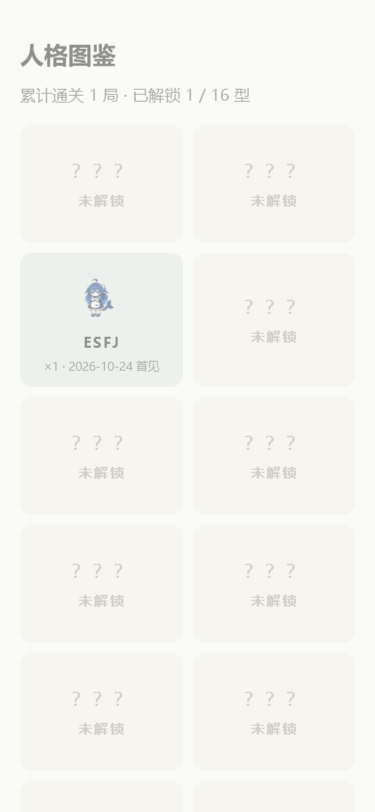
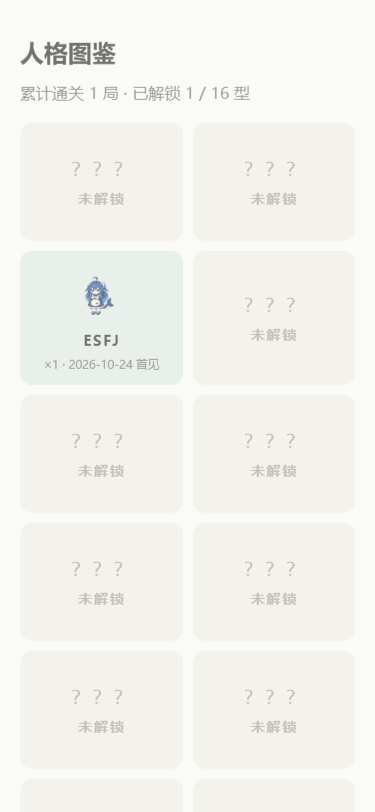
心路：v2-M4' 4.3 发布文书（tag 前终态）——CHANGELOG v2.0.0 节（数据口径版本 v2.0.0：事件 121/结局 8+1/画像 16/birth-map 288 对账 validate --count；历史存档建议重开声明——B1 新增 9 条事件 112→121 改变结局判定结论；v2 特性七条：E2E 基线/人格鱼 mascot/16 型图鉴/分享卡/场景氛围/可达性扫描门/素材治理双门禁+credits；已知限制含手机相册端真机待验）+ plan/05 新增 §七 v2.0.0 发布留档主体（发布概要/tag 时点事实两栏：构建 fa1ec35、干净静态 8

diff --git a/plan/v2/05-发布留档.md b/plan/v2/05-发布留档.md
@@ -1,44 +1,33 @@
 # 05 · 《心路》v2.0 发布留档
 
-> **状态：⬜ 待 v2-M4' 撰写主体（骨架先行，2026-10-24 建立）**
-> 自证约定（沿 v1 plan/05）：本档**主体**在 tag v2.0.0 **之前**定稿随 tag 入树；发布后才产生的事实只写入「tag 后追加」分栏。本档是 v1 [../05-发布留档.md](../05-发布留档.md) 的**追加节**载体——发布时其内容并入该档新增 v2.0.0 节（单源不双写），本骨架随 v2 套件留存。
+> **状态：✅ 主体已定稿（2026-10-24，v2-M4' 撰写）——主体事实并入 [plan/05-发布留档.md §七 v2.0.0 发布留档](../05-发布留档.md)（单源不双写），本骨架随 v2 套件留存为载体**
+> 自证约定（沿 v1 plan/05）：主体在 tag v2.0.0 **之前**定稿随 tag 入树；发布后才产生的事实只写入 plan/05 §七「tag 后追加」分栏。本档是 v1 [../05-发布留档.md](../05-发布留档.md) 的**追加节**载体——发布时其内容并入该档新增 v2.0.0 节（单源不双写），本骨架随 v2 套件留存。
 
-## 一、发布概要（待 v2-M4' 填）
+## 一、发布概要（主体见 plan/05 §七发布概要表）
 
 | 项 | 值 |
 |---|---|
-| 版本 | ⬜ 待 v2-M4'（拟 v2.0.0——B1 改变结局判定结论，主版本 +1） |
-| 数据口径版本 | ⬜ 待 v2-M4'（v2.0.0 数据口径；对账 `npm run validate -- --count` 实际数） |
-| 部署地址 | ⬜ 待 v2-M4'（Pages URL 不变，内容随 v2 更新） |
-| 构建产物 | `dist.zip` + sha256（Release 附件；预期显著大于 v1 的 34KB，预算门 ≤500KB gzip 内） |
+| 版本 | v2.0.0（详见 [plan/05 §七](../05-发布留档.md)） |
+| 数据口径版本 | v2.0.0 数据口径（详见 [plan/05 §七](../05-发布留档.md)） |
+| 部署地址 | https://yuluo554.github.io/xinlu/ |
+| 构建产物 | `dist.zip` + sha256（Release 附件；预算门 447.29KB ≤ 500KB gzip） |
 
-## 二、附件清单（与 00 §实物表对账）
+## 二、附件清单（与 00 §实物表对账；明细见 plan/05 §七）
 
 | 附件 | 应存在 | 核对 |
 |---|---|---|
-| `dist.zip` | Release 附件 + 本地副本 | 下载解压，静态服务可玩 + mascot/分享卡可见 |
+| `dist.zip` | Release 附件 + 本地副本 | 下载解压，静态服务可玩 + mascot/分享卡/图鉴可见 |
 | sha256 校验和 | Release 说明内 | `sha256sum dist.zip` 与说明一致 |
 | 分享卡样张 | docs/assets/（非 Release 必附） | 实存图留痕 |
 
-## 三、tag 时点事实（待 v2-M4'，tag 之前写定）
+## 三、tag 时点事实（已写定于 plan/05 §七同名分节）
 
-- 构建与验证完成时间、commit：
-- 干净环境冒烟：一键通关 + 分享卡导出 + 图鉴写入 留痕路径：
-- E2E 与门禁终值：e2e 绿 / 许可门绿 / 预算门绿（数值：dist gzip 实测 =  ）：
-- CHANGELOG 条目与口径版本：
-- 已知问题（01 §十 + 遗留选择）：
+- 主体事实（构建 commit / 干净冒烟 / Pages run / 门禁终值 / CHANGELOG / 已知问题）唯一存放 [plan/05 §七「tag 时点事实」](../05-发布留档.md)，此处不复制。
 
-## 四、tag 后追加事实（发布后填，不得回写上节）
+## 四、tag 后追加事实（发布后填于 plan/05 §七同名分节，不得回写 tag 时点节）
 
-- 实际 Pages URL 首开验证时间：
-- Release 附件实际 sha256：
-- Traffic 对比 v1 基线（v1 发布当日 views 0）：周记见 06 §节奏：
-- 首批外部反馈（如有）：
+- 追加事实（实际 tag/Release、sha256 复核、部署 run、Traffic）唯一存放 [plan/05 §七「tag 后追加事实」](../05-发布留档.md)，此处不复制。
 
 ## 五、DoD 达成声明（对照 00 §里程碑总表 v2-M4' 行逐项打勾）
 
-- [ ] tag v2.0.0 + Release 附产物（dist.zip + sha256）+ 本留档追加节 三件套
-- [ ] Release 说明五部分（变更摘要 / 口径版本 / **历史存档建议重开声明** / 校验和 / 已知问题）
-- [ ] tag 在构建与验证之后
-- [ ] README 增量（分享卡/图鉴说明 + credits 链接）且 76 行门不破
-- [ ] 两处状态副本 + 台账（v2 八行）全翻 ✅
+- 勾选态唯一存放 [plan/05 §七「DoD 达成声明」](../05-发布留档.md)，随收官提交翻齐。

diff --git a/plan/05-发布留档.md b/plan/05-发布留档.md
@@ -54,3 +54,40 @@
 | README/DEVELOPMENT 门清单（Python 版 check_readme_gate 严格模式） | 不适用+理由 | 本项目非 Python 包，无 wheel/pyproject；README 门以 04 §M5 中文门清单逐项人工核验（docs/M5-门面与体验清单.md §四 + docs/M6-发布清单.md §三），判据同构（行数/行位/无 DoD/已知限制/依据表） |
 | Traffic 周记（14 天窗口） | 待首推 | 基线 0 已录 §四；首次 7 天回访按 plan/06 周自查执行（HANDOFF-M7 待办） |
 | 外部反馈 / issue 轮转 | 待首推 | 发布当日无 issue；按 plan/06 归档判据与周记节奏观察 |
+
+## 七、v2.0.0 发布留档（v2-M4' · 2026-10-24）
+
+> 单源约定：v2 套件 [v2/05-发布留档.md](v2/05-发布留档.md) 是骨架载体，v2.0.0 的主体事实唯一存放本节（单源不双写），本节判据与 §一–§六 同构。v2.0.0 = B1 改变结局判定结论 → 主版本 +1（双层版本规则，plan/06）。
+
+### 发布概要
+
+| 项 | 值 |
+|---|---|
+| 版本 | v2.0.0（package.json / package-lock 2.0.0，tag 同号） |
+| 数据口径版本 | v2.0.0 数据口径（2026-10-24 末态；对账 `npm run validate -- --count`：事件 121 / 结局 8 条件 + 1 兜底 / 画像 16 / birth-map 288 组合） |
+| 部署地址 | https://yuluo554.github.io/xinlu/（URL 不变，内容随 v2 更新） |
+| 构建产物 | `dist.zip` + sha256（Release 附件；预算门实测 dist gzip 求和 **447.29KB** ≤ 500KB，0 WARN） |
+
+### tag 时点事实（2026-10-24，tag 之前写定）
+
+- 构建与验证：2026-10-24；4.1 代码态 commit `fa1ec35`（图鉴 + P2 拍板 + 评审门文档，全套门在该态实测全绿）；发布就绪态 = 本节所在提交（CHANGELOG + plan/05 主体 + 版本号 2.0.0，代码面与 `fa1ec35` 零差异）；
+- 干净环境冒烟：纯静态服务（`py -m http.server 8801 --directory dist`，等价 Pages 托管）一键通关 **375/1280 双端至「灶台边的大管家」ESFJ 终局**，含图鉴断言（16 格 / 累计局数 / avatar 水合）+ 分享卡落盘，exit 0（`node tests/e2e/smoke.mjs --no-build --base-url` 同一口径，截图 docs/assets/v2m4-gallery-{375,1280}.png）；
+- Pages 部署与实开：push `fa1ec35` 触发 deploy-pages run **40086974577 success**（27s，部署前 typecheck / validate / test 前置全过）；**实开 https://yuluo554.github.io/xinlu/ 同脚本口径双端一键通关 + 图鉴 + 分享卡落盘 exit 0**；
+- E2E 与门禁终值：e2e 绿（通关 + mascot + 场景 + 分享卡落盘 + credits + 图鉴断言）/ 布局门全绿 / 脱敏门 0 命中 / 数据门 6 区 0 FAIL / typecheck 0 错 / vitest **121/121** / 可达性 9 结局 exit 0 / 许可门 0 FAIL / 预算门 447.29KB 绿 0 WARN；
+- CHANGELOG 条目与口径版本：v2.0.0（2026-10-24），数据口径版本 v2.0.0 数据口径，**含历史存档建议重开声明**（见 CHANGELOG.md v2.0.0 节）；
+- 已知问题：MBTI 娱乐向定位（不构成心理测评）；分享卡手机相册端（iOS Safari `a[download]` 兼容）**待真机补验**——若降级为预览打开记已知限制，不阻塞发布；P2 三项（PWA/音效/回溯）拍板不做（v2/00 §决策记录）；素材第三方许可与已知限制全文见 `public/credits.md`。
+
+### tag 后追加事实（发布后填，不得回写上节）
+
+- 实际 tag 与 Release：
+- Release 附件实际 sha256：
+- 第二次部署 run（tag 前终态）：
+- Traffic 对比 v1 基线（views 0）：
+
+### DoD 达成声明（对照 v2/00 §里程碑总表 v2-M4' 行逐项打勾）
+
+- [ ] 图鉴单测 + 16 型封闭校验（121/121 含 15 图鉴项；评审门三方核对表 docs/v2-M4-gates.md §一）
+- [ ] P2 择项做与不做留痕（三项均不做，v2/00 §决策记录 2026-10-24 行）
+- [ ] 三件套：tag v2.0.0 + Release 附产物（dist.zip + sha256）+ 本节留档
+- [ ] Release 说明五部分（变更摘要 / 口径版本 / 历史存档建议重开声明 / 校验和 / 已知问题）
+- [ ] tag 在构建与部署验证之后

diff --git a/CHANGELOG.md b/CHANGELOG.md
@@ -2,7 +2,24 @@
 
 版本遵循语义化版本；内容版本规则（双层版本的游戏版）见 [plan/06-运维节奏.md](plan/06-运维节奏.md)：结局/画像判定结论变化 → 主版本 +1 并在 Release 注明历史存档是否需重开；新增事件/结局 → 次版本 +1；纯文案微调 → 补丁。
 
-**每条发布条目均注明数据口径版本。** 数值口径单一定义源在 [plan/02-数据与口径.md](plan/02-数据与口径.md)；实际规模以对账命令 `npm run validate -- --count` 输出为准。
+**每条发布条目均注明数据口径版本。** 数值口径单一定义源：v1 口径在 [plan/02-数据与口径.md](plan/02-数据与口径.md)，v2 增量在 [plan/v2/02-数据与口径.md](plan/v2/02-数据与口径.md)；实际规模以对账命令 `npm run validate -- --count` 输出为准。
+
+## v2.0.0（2026-10-24）
+
+**数据口径版本**：v2.0.0 数据口径（2026-10-24 末态，plan/02 + plan/v2/02 单源。事件库 121 / 结局 8 条件 + 1 兜底 / 画像 16 / birth-map 288 组合，对账 `npm run validate -- --count`）
+
+> **历史存档建议重开**：本版本 B1 平衡修复新增 9 条 T/P 侧事件（112 → 121）并改变结局判定结论——v1 期半数条件结局（end-04/05/07/08）在 v2 下才线性可达，旧存档续玩会得到与 v1 判定不同的结局结果，建议重开新局体验完整 9 结局。
+
+- **内容修复（B1）**：补齐 T/P 侧语义事件使 8 条件结局 + 兜底全部线性策略可达（引擎级 96 组扫描 `scripts/check-ending-reachability.mjs` 守护 + 防回退测试同行交付）；
+- **人格鱼 mascot**：四维倾向值实时参数化一条鱼的形态/表情/氛围（19 帧表情映射，选项反馈 / 阶段小结 / 终局主视觉全程陪伴），参数纯函数同输入恒同输出；
+- **16 型图鉴**：独立存储 `xinlu.gallery.v2`（不动存档 schema），开局屏进入，通关自动入册，终局提示未解锁型；损坏视为空图鉴重建；
+- **终局分享卡**：一键导出 1080×1440 PNG（`xinlu-<mbti>-<yyyymmdd>.png`），纯客户端 Canvas 生成、零上传；
+- **场景氛围**：出生环境映射水域背景（「时代水温」）与云层（城乡梯度），阶段小结配海洋图标；
+- **双端 E2E 冒烟**：CDP 驱动 375/1280 双端一键通关（`npm run e2e`），每棒出口门必过项；
+- **素材治理**：入库素材 ⊆ 许可白名单（`tools/check-assets-license.mjs`）+ dist gzip ≤500KB 预算门（`tools/check-dist-budget.mjs`，实测 447.29KB）+ 署名全文 [public/credits.md](public/credits.md)；
+- 零运行时依赖不变；GitHub Pages 同址更新。
+
+已知限制：MBTI 娱乐向定位（不构成心理测评）；分享卡手机相册端（iOS Safari 下载兼容）待真机补验；素材第三方许可与已知限制全文见 credits。
 
 ## v1.0.0（2026-10-24）
 
